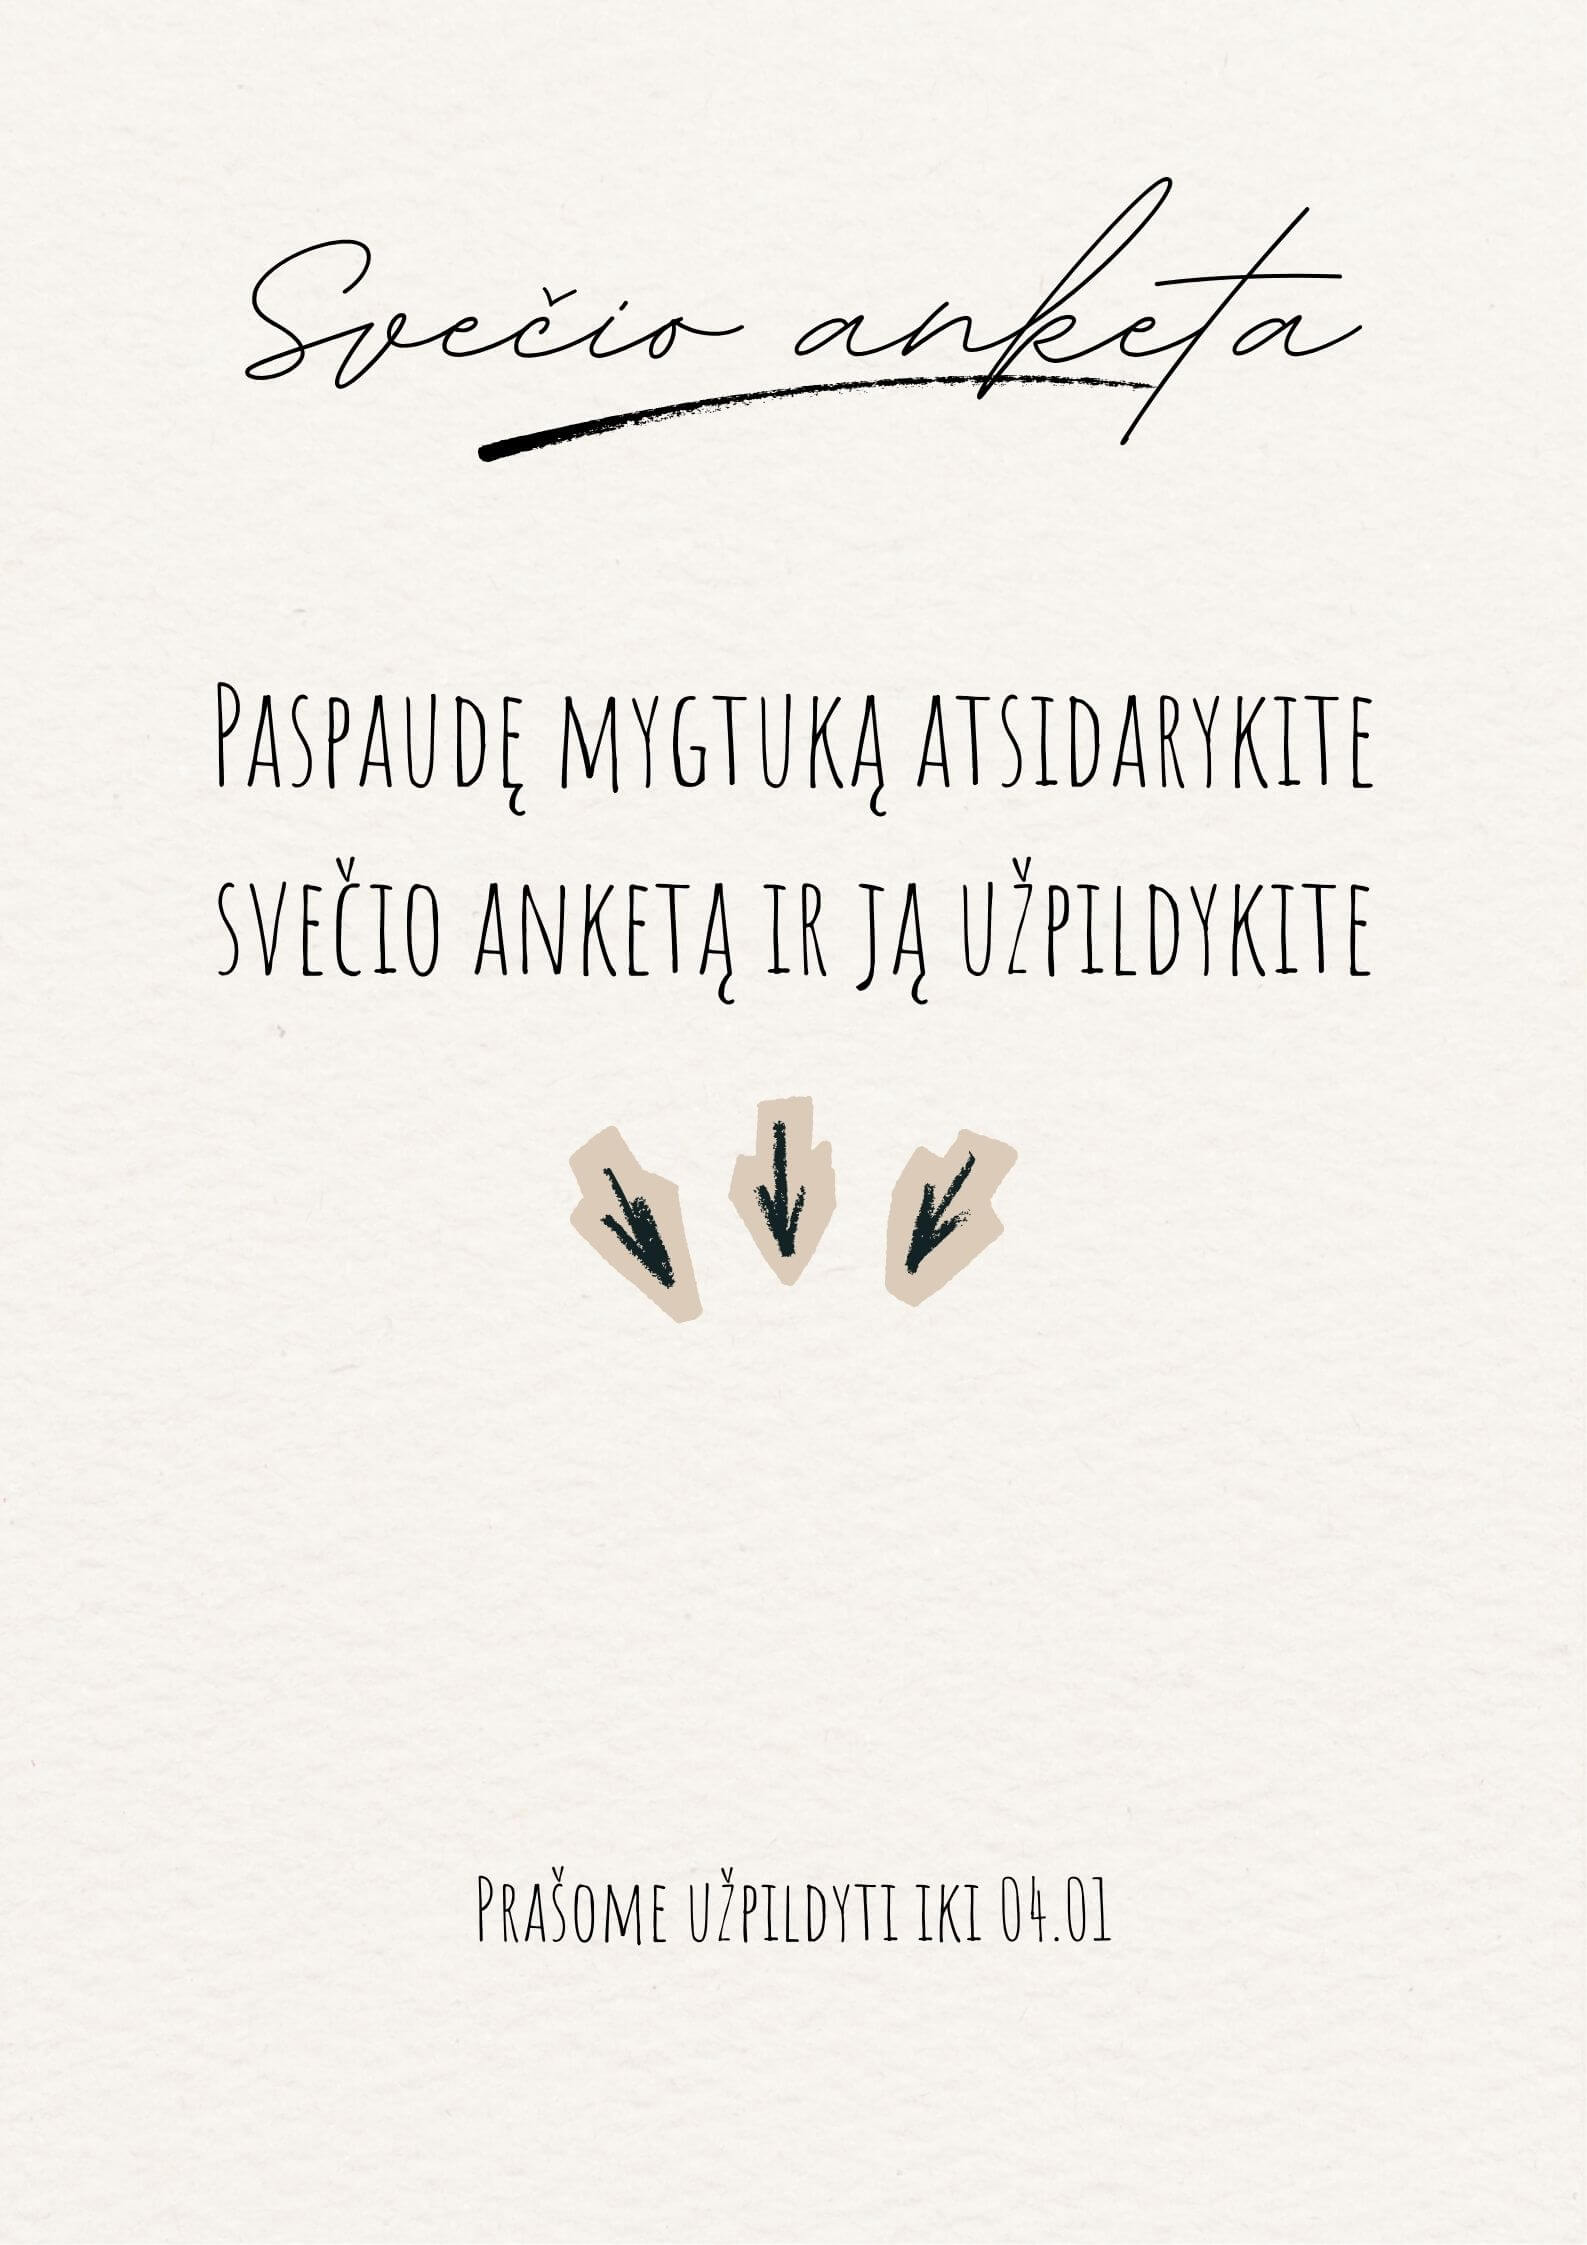
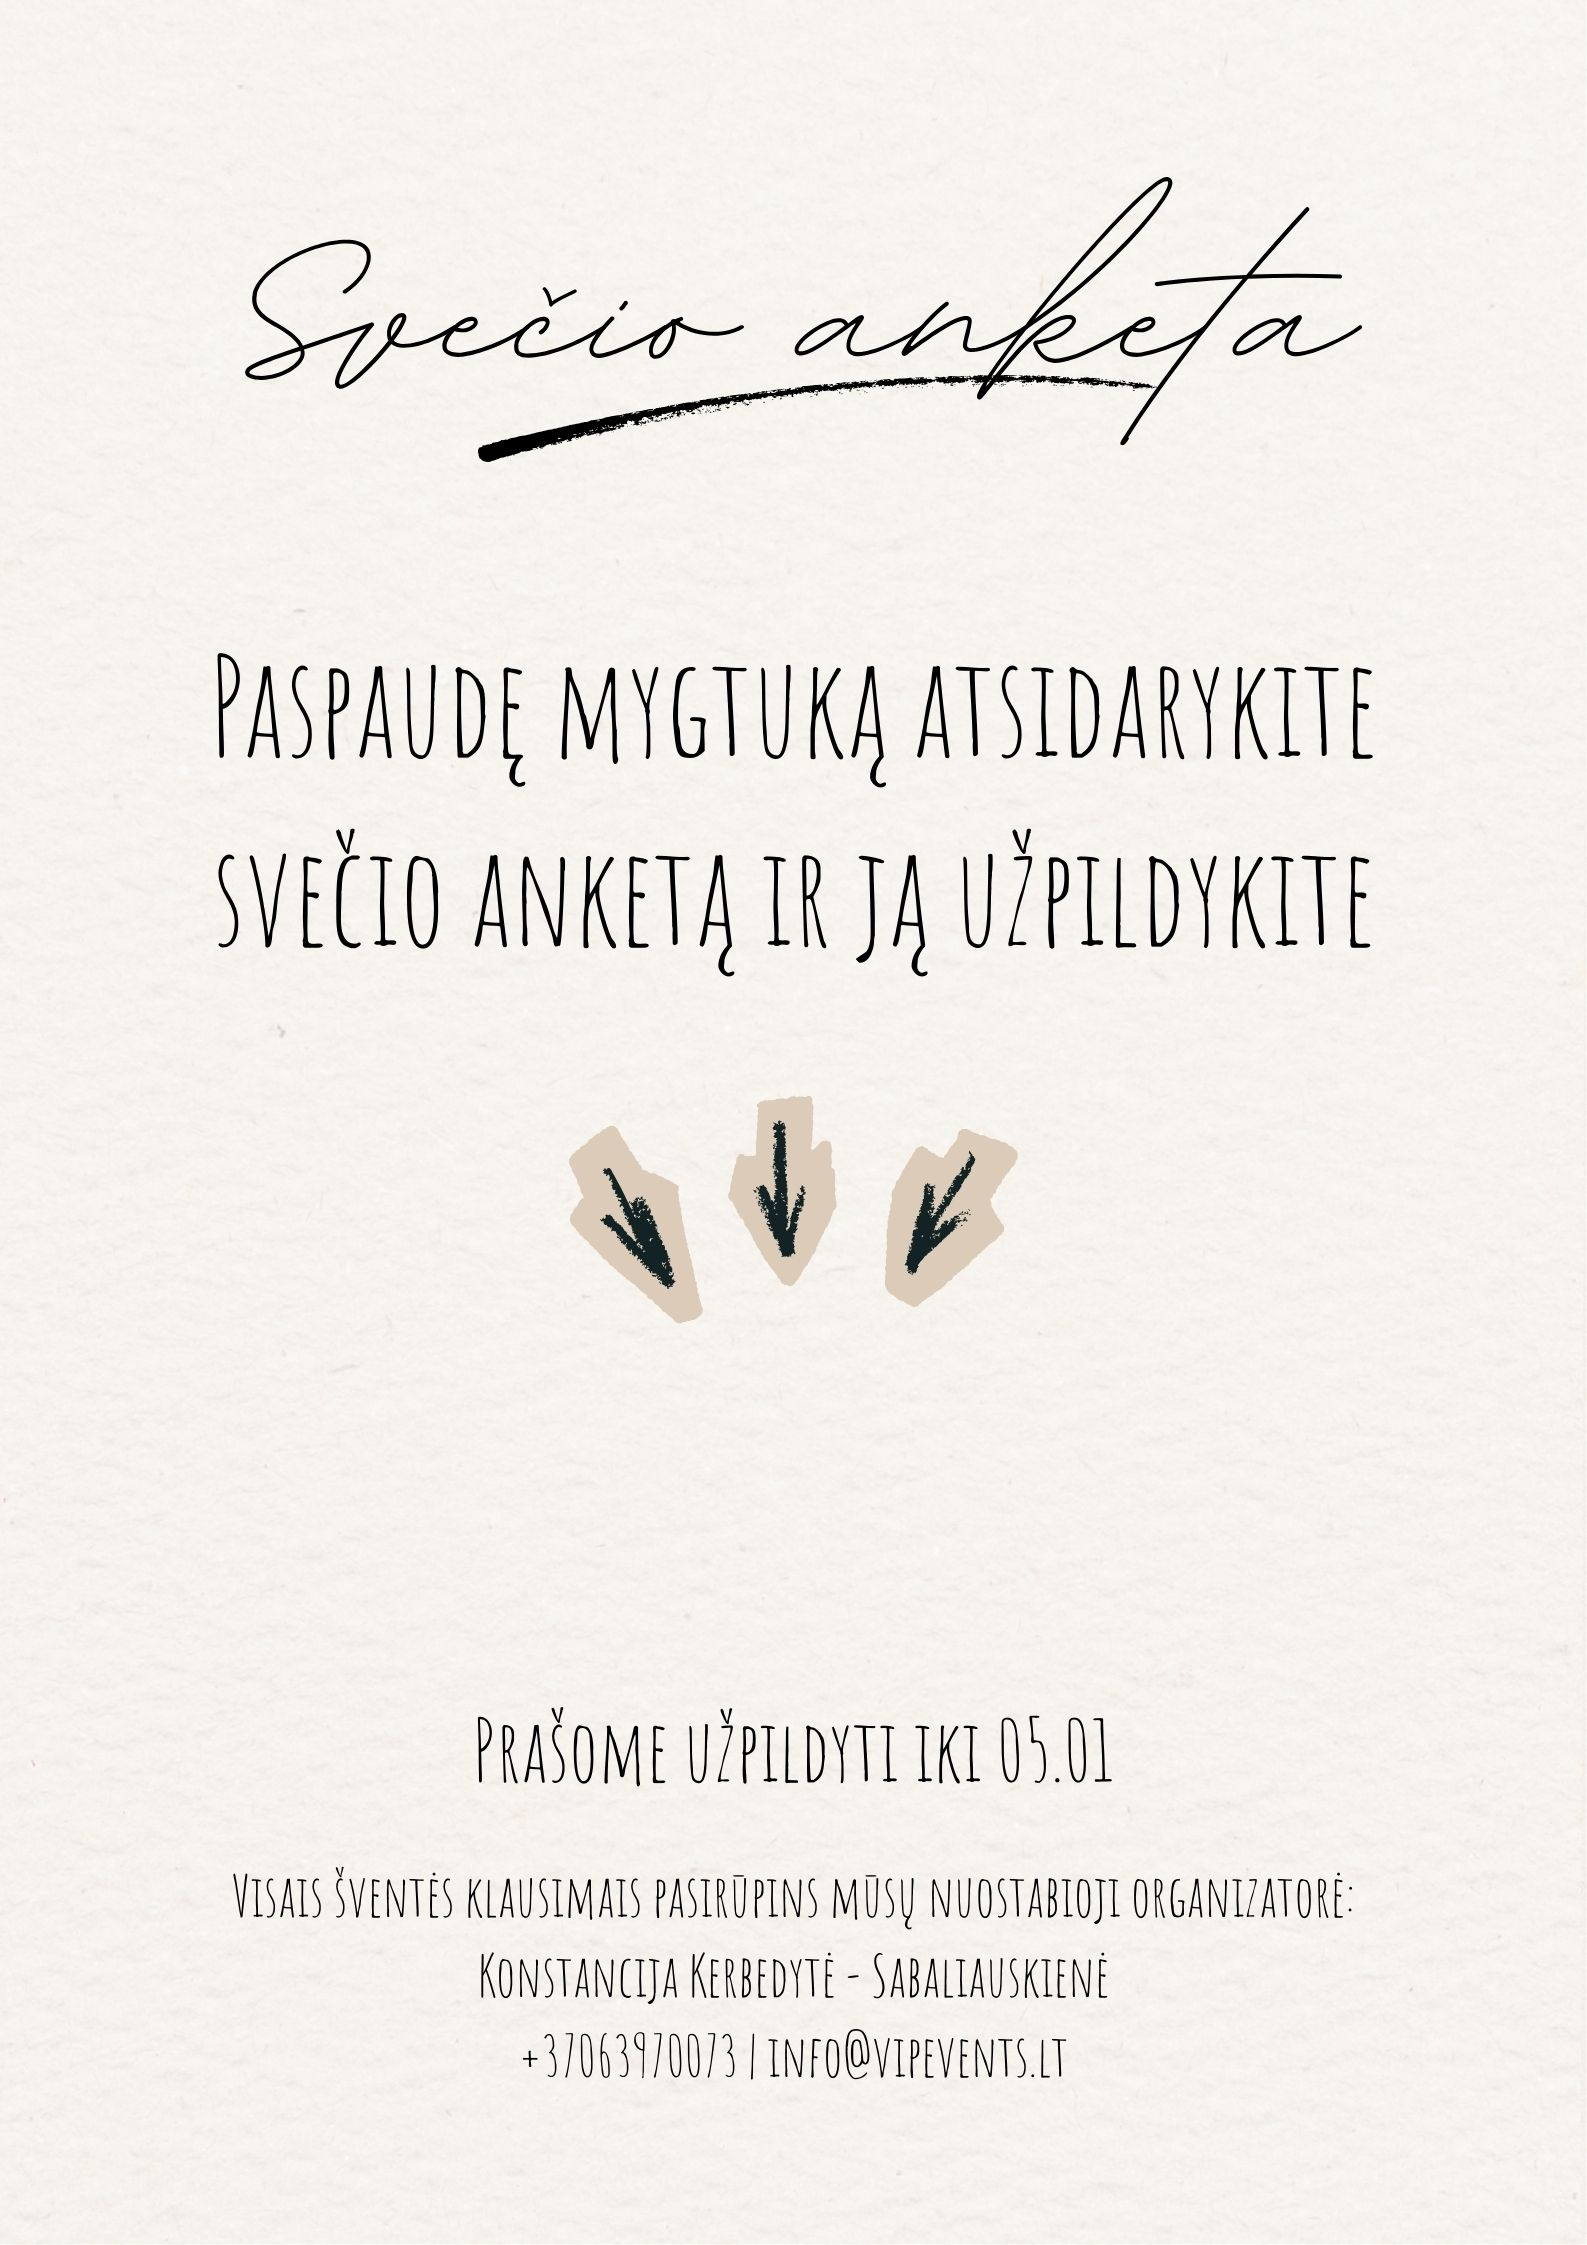
changed text

diff --git a/style.css b/style.css
@@ -209,7 +209,7 @@ body {
 
 .location__title h2 {
   font-family: "Beautifully Delicious", cursive;
-  font-size: 54px;
+  font-size: 60px;
   font-weight: 100;
   line-height: 25px;
   transform: rotate(-10deg);
@@ -219,16 +219,16 @@ body {
   width: 75px;
   height: auto;
   display: block;
-  margin: 0px auto 0 auto;
-  transform: translateX(8%);
+  margin: 2px auto 0 auto;
+  transform: translate(8%);
   transform: rotate(-10deg);
 }
 
 .details {
   font-family: var(--font-amatic-bold);
-  font-size: 14px;
+  font-size: 18px;
   line-height: 20px;
-  margin-bottom: 20px;
+  margin: 0 auto 20px;
 }
 
 .location__images {
@@ -332,7 +332,7 @@ body {
 /* MYGTUKAS */
 .rsvp__btn {
   position: absolute;
-  bottom: 25%;
+  bottom: 29%;
   left: 50%;
   transform: translateX(-50%) rotate(-1.5deg) scale(1);
 
@@ -526,6 +526,7 @@ body {
     font-size: 26px;
     line-height: 32px;
     margin-bottom: 30px;
+    max-width: 600px;
   }
   .rsvp {
     padding: 80px 10px;

diff --git a/index.html b/index.html
@@ -80,10 +80,9 @@
             <img src="images/underline.png" alt="Bruksnys" loading="lazy" />
           </div>
           <p class="details reveal">
-            Jūsų patogumui pridedame žemėlapį. Tik spustelėkite ant
-            piešinėlių!<br />
-            Tikimes, kad lengvai rasite šventės vietas ir pradžiuginsite mus
-            savo dalyvavimu!
+            Pridedame žemėlapį – spustelėkite piešinėlius ir lengvai rasite
+            šventės vietas.
+            Lauksime jūsų! 🤍
           </p>
           <div class="location__images reveal">
             <div class="location--church">
